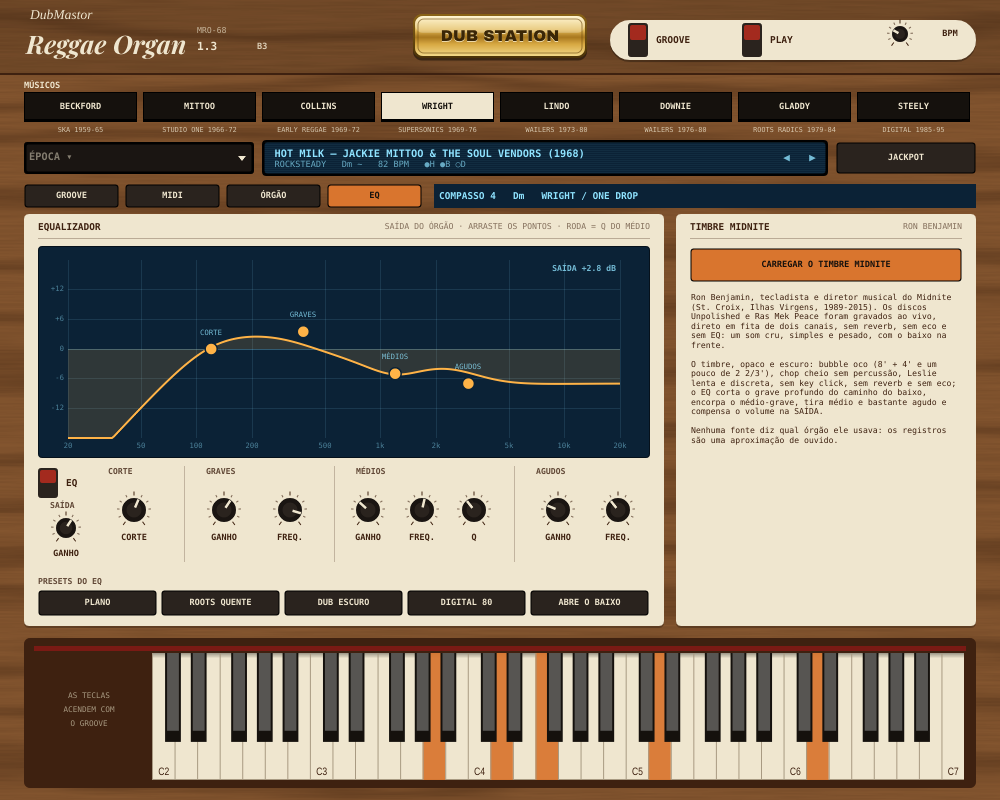
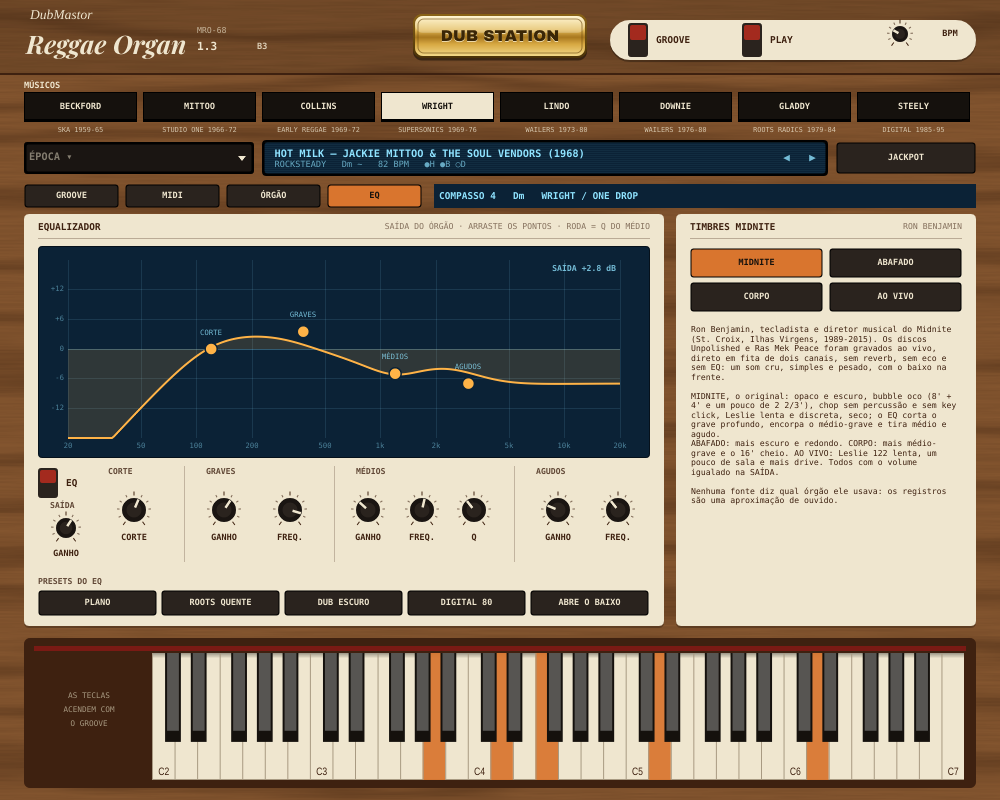
MRO-68 1.3: TIMBRES MIDNITE com 3 variações (ABAFADO, CORPO, AO VIVO), volume igualado
Claude-Session: https://claude.ai/code/session_01DJAeyZsyaf8hh4txo87EyA

Changed region(s): [[0.682, 0.2812, 0.961, 0.625]]

diff --git a/site/web/reggaeorgan/index.html b/site/web/reggaeorgan/index.html
@@ -102,7 +102,7 @@ canvas#roll{width:100%;height:300px;display:block;border-radius:6px;background:v
 .eqk input{min-width:0;flex:1}
 .eqk .sl label{width:48px}
 .mid p{font-size:11px;line-height:1.45;margin:8px 0}
-.mid .chip{width:100%;padding:12px 6px;font-size:12px}
+.mid .chip{flex:1 1 45%;padding:12px 6px;font-size:12px}
 @media (max-width:760px){.eqk{grid-template-columns:1fr}}
 .kb{position:relative;height:130px;margin-top:10px;background:var(--brown);border-radius:6px;padding:8px 8px 6px;border-top:5px solid #7a1a14;user-select:none;touch-action:none}
 .kb .keys{position:relative;height:100%}
@@ -242,10 +242,11 @@ canvas#roll{width:100%;height:300px;display:block;border-radius:6px;background:v
     <div class="lbl">PRESETS DO EQ</div><div class="row" id="eqPresets"></div>
   </div>
   <div class="panel mid">
-    <h2>TIMBRE MIDNITE <small>Ron Benjamin</small></h2>
-    <button class="chip" id="midnite">CARREGAR O TIMBRE MIDNITE</button>
+    <h2>TIMBRES MIDNITE <small>Ron Benjamin</small></h2>
+    <div class="row" id="midnite"></div>
     <p>Ron Benjamin, tecladista e diretor musical do Midnite (St. Croix, Ilhas Virgens, 1989-2015). Os discos <i>Unpolished</i> e <i>Ras Mek Peace</i> foram gravados ao vivo, direto em fita de dois canais, sem reverb, sem eco e sem EQ: um som cru, simples e pesado, com o baixo na frente.</p>
-    <p>O timbre, opaco e escuro: bubble oco (8' + 4' e um pouco de 2⅔'), chop cheio sem percussão e sem key click, Leslie lenta e discreta, sem eco; o EQ corta o grave profundo do caminho do baixo, encorpa o médio-grave, tira médio e bastante agudo e compensa o volume na SAÍDA. O groove continua o do músico escolhido.</p>
+    <p><b>MIDNITE</b>, o original: opaco e escuro, bubble oco (8' + 4' e um pouco de 2⅔'), chop sem percussão e sem key click, Leslie lenta e discreta, seco; o EQ corta o grave profundo, encorpa o médio-grave e tira médio e agudo.
+    <b>ABAFADO</b>: mais escuro e redondo. <b>CORPO</b>: mais médio-grave e o 16' cheio. <b>AO VIVO</b>: Leslie 122 lenta e mais drive. Todos com o volume igualado na SAÍDA. O groove continua o do músico escolhido.</p>
     <p style="opacity:.7">Nenhuma fonte diz qual órgão ele usava: os registros são uma aproximação de ouvido.</p>
   </div>
  </div>
@@ -299,7 +300,12 @@ const EQ_PRESETS=[
   ['DIGITAL 80','fino e brilhante',[150,-3,200,2,2500,.9,4,7000,0]],
   ['ABRE O BAIXO','corta o grave para o baixo',[180,-4,250,1.5,1200,.8,0,5000,0]]];
 const EQ_KEYS=['eqHpf','eqLowG','eqLowF','eqMidG','eqMidF','eqMidQ','eqHighG','eqHighF','eqOut'];
-const MIDNITE={bdb:[0,0,8,6,2,0,0,0,0],cdb:[8,6,8,4,0,0,0,0,0],drive:.12,lesPreset:2,lesSpeed:0,lesDepth:.45,eq:[120,3.5,380,-5,1200,.8,-7,3000,2.8]};
+// TIMBRES MIDNITE: os mesmos do OrganEQ.h (midniteTimbre). O reverb do AO VIVO fica só no plugin.
+const MIDNITE=[
+  {name:'MIDNITE',sub:'o original: seco, opaco e escuro',bdb:[0,0,8,6,2,0,0,0,0],cdb:[8,6,8,4,0,0,0,0,0],drive:.12,lesPreset:2,lesSpeed:0,lesDepth:.45,eq:[120,3.5,380,-5,1200,.8,-7,3000,2.8]},
+  {name:'ABAFADO',sub:'mais escuro e redondo, quase sem agudo',bdb:[0,0,8,4,0,0,0,0,0],cdb:[8,4,8,2,0,0,0,0,0],drive:.10,lesPreset:2,lesSpeed:0,lesDepth:.35,eq:[120,4,360,-6,1100,.8,-10,2200,3.4]},
+  {name:'CORPO',sub:"mais médio-grave e o 16' cheio no chop",bdb:[0,0,8,6,2,0,0,0,0],cdb:[8,8,8,4,0,0,0,0,0],drive:.14,lesPreset:2,lesSpeed:0,lesDepth:.45,eq:[110,5,420,-4.5,1300,.8,-7,3000,.4]},
+  {name:'AO VIVO',sub:'Leslie 122 lenta e mais drive',bdb:[0,0,8,6,2,0,0,0,0],cdb:[8,6,8,4,0,0,0,0,0],drive:.18,lesPreset:1,lesSpeed:0,lesDepth:.7,eq:[120,3.5,380,-5,1200,.8,-6,3200,2.5]}];
 const EPOCHS = [ // musician, beat, feel(-1 = grade do músico), bpm
   ['ROCKSTEADY','1966-68',1,0,1,80],['EARLY REGGAE','1968-72',2,0,-1,84],['ROOTS','1972-79',3,0,-1,74],['ROCKERS','1975-80',5,1,-1,76],
   ['LOVERS ROCK','1969-94',4,0,-1,72],['RUB A DUB','1979-84',6,0,-1,78],['DIGITAL','1985-89',7,1,-1,92],['RAGGA','1990-95',7,2,-1,94],
@@ -392,7 +398,7 @@ function detectChord(held){
 const S = {mus:1,epoch:-1,bank:-1,grid:gridFrom(MUS[1].rh,MUS[1].lh),beat:0,nota:0,swing:.12,human:.3,ghost:.5,seed:1,
   bubbleOn:true,chopOn:true,fillsOn:true,bubbleLvl:.85,chopLvl:.75,fillStyle:0,fillEvery:4,chordSrc:0,bpm:80,
   instr:0,lesPreset:0,lesSpeed:0,lesBrake:false,lesDepth:.8,drive:.2,echoOn:false,echoVol:.45,echoInt:.4,master:.8,bdb:[0,0,8,2,0,0,0,0,0],cdb:[8,8,8,0,0,0,0,0,0],
-  quickFeel:2,quickDen:2,page:0,...EQ_FLAT,midnite:false,brush:1,edits:null,
+  quickFeel:2,quickDen:2,page:0,...EQ_FLAT,midnite:-1,brush:1,edits:null,
   slots:[{root:9,minor:true,dur:1,on:true},{root:2,minor:true,dur:1,on:true},{root:9,minor:true,dur:1,on:true},{root:4,minor:true,dur:1,on:true}]};
 const chords=()=>S.slots.filter((s,i)=>i===0||s.on).map(s=>({root:s.root,minor:s.minor,beats:DURS[s.dur][0]}));
 function settings(){ return {grid:S.grid,beat:S.beat,noteSize:S.nota,swing:S.swing,human:S.human,ghost:S.ghost,seed:S.seed,bubbleOn:S.bubbleOn,chopOn:S.chopOn,fillsOn:S.fillsOn,
@@ -573,7 +579,7 @@ function setStatus(t){ document.getElementById('status').textContent=t; }
 
 // ====================================================================== os três caminhos
 function applyMusician(i){
-  const m=MUS[i]; S.mus=i; S.edits=null; S.epoch=-1; S.midnite=false;
+  const m=MUS[i]; S.mus=i; S.edits=null; S.epoch=-1; S.midnite=-1;
   Object.assign(S,{grid:gridFrom(m.rh,m.lh),beat:m.beat,swing:m.swing,human:m.human,ghost:m.ghost,fillStyle:m.fillStyle,fillEvery:m.fillEvery,bpm:m.bpm,lesPreset:lesFromMusician(m.leslie),lesSpeed:m.leslie===2?1:0,lesBrake:false,lesDepth:m.leslie?LES[lesFromMusician(m.leslie)].depth:.8,drive:m.drive,bdb:[...m.bdb],cdb:[...m.cdb]});
   buildWaves(); renderDrawbars(); refresh(); applySound();
   if(!playing) setStatus(m.who+'  ·  dê PLAY');
@@ -718,8 +724,8 @@ function setPage(p){ S.page=p; [0,1,2,3].forEach(k=>$('p'+k).hidden=k!==p); refr
 function refresh(){
   [...$('mus').children].forEach((b,i)=>b.classList.toggle('on',i===S.mus));
   $('epoch').value=String(S.epoch);
-  ['tabs','feel','density','beat','nota','fillStyle','fillEvery','chordSrc','lesPresets','lesSpeed','instr','brush','eqPresets'].forEach(refreshChips);
-  $('eqOn').classList.toggle('on',S.eqOn); $('midnite').classList.toggle('on',S.midnite); if(S.page===3) drawEq();
+  ['tabs','feel','density','beat','nota','fillStyle','fillEvery','chordSrc','lesPresets','lesSpeed','instr','brush','eqPresets','midnite'].forEach(refreshChips);
+  $('eqOn').classList.toggle('on',S.eqOn); if(S.page===3) drawEq();
   $('lesBrake').classList.toggle('on',S.lesBrake);
   for(const k of ['bubbleOn','chopOn','fillsOn','echoOn']) $(k).classList.toggle('on',S[k]);
   $('backBtn').disabled=!S.edits; $('backBtn').classList.toggle('on',!!S.edits);
@@ -790,8 +796,10 @@ function setEq(v){ EQ_KEYS.forEach((k,i)=>S[k]=v[i]); S.eqOn=true; }
 chips('eqPresets',EQ_PRESETS.map(p=>p[0]),eqPresetIndex,i=>setEq(EQ_PRESETS[i][2]));
 [...$('eqPresets').children].forEach((b,i)=>b.title=EQ_PRESETS[i][1]);
 $('eqOn').onclick=()=>{ S.eqOn=!S.eqOn; refresh(); applySound(); };
-$('midnite').onclick=()=>{ Object.assign(S,{instr:0,bdb:[...MIDNITE.bdb],cdb:[...MIDNITE.cdb],drive:MIDNITE.drive,echoOn:false,lesPreset:MIDNITE.lesPreset,lesSpeed:MIDNITE.lesSpeed,lesBrake:false,lesDepth:MIDNITE.lesDepth,midnite:true});
-  setEq(MIDNITE.eq); buildWaves(); renderDrawbars(); refresh(); applySound(); };
+chips('midnite',MIDNITE.map(t=>t.name),()=>S.midnite,i=>{ const T=MIDNITE[i];
+  Object.assign(S,{instr:0,bdb:[...T.bdb],cdb:[...T.cdb],drive:T.drive,echoOn:false,lesPreset:T.lesPreset,lesSpeed:T.lesSpeed,lesBrake:false,lesDepth:T.lesDepth,midnite:i});
+  setEq(T.eq); buildWaves(); renderDrawbars(); });
+[...$('midnite').children].forEach((b,i)=>b.title=MIDNITE[i].sub);
 // curva: a resposta real dos filtros do navegador (getFrequencyResponse), medida em filtros de um contexto offline
 let eqProbe=null;
 function eqFilters(){   // sempre os filtros de medida: os do áudio deslizam até o valor novo (setTargetAtTime)

diff --git a/site/instrumentos.html b/site/instrumentos.html
@@ -422,7 +422,7 @@
               <li>Dois registros de drawbar, como dois organistas; Leslie animada de dois rotores (presets 122, 147, Chorale, Dub Tremolo) e eco de fita na mão direita</li>
               <li>INSTRUMENTO: Hammond B3 ou 4 pianos elétricos tocando o mesmo groove: Rhodes Stage, Rhodes Suitcase (tremolo), Wurlitzer 200A e FM EP estilo DX7</li>
               <li>Novo na 1.3: aba EQ com equalizador de 4 faixas (corte de graves, graves, médios com Q, agudos), curva editável no mouse e presets</li>
-              <li>Novo na 1.3: TIMBRE MIDNITE, o órgão cru e seco do Ron Benjamin (Midnite, St. Croix)</li>
+              <li>Novo na 1.3: TIMBRES MIDNITE, o órgão cru, seco e escuro do Ron Benjamin (Midnite, St. Croix), com as variações ABAFADO, CORPO e AO VIVO</li>
             </ul>
             <div class="formats">Instrumento / gerador de grooves · Windows: VST3 + standalone · Mac: VST3, AU + standalone (Intel e Apple Silicon)</div>
             <div class="dl">

diff --git a/ReggaeOrgan/Source/PluginEditor.cpp b/ReggaeOrgan/Source/PluginEditor.cpp
@@ -938,16 +938,23 @@ ReggaeOrganEditor::ReggaeOrganEditor (ReggaeOrganProcessor& p)
     }
     eqPresets.current = [this] { return proc.getEqPreset(); };
     eqPresets.onPick = [this] (int i) { proc.applyEqPreset (i); };
-    midniteBtn.setButtonText (u8 ("CARREGAR O TIMBRE MIDNITE"));
-    midniteBtn.getProperties().set ("style", "chip");
-    midniteBtn.setTooltip (u8 ("Troca registros, Leslie, drive, click, reverb, eco e EQ. O groove continua o do m\xc3\xbasico."));
-    midniteBtn.onClick = [this] { proc.applyMidnite(); };
-    addAndMakeVisible (midniteBtn);
+    {
+        juce::StringArray names;
+        for (int i = 0; i < mro::NumMidniteTimbres; ++i) names.add (u8 (mro::midniteTimbre (i).name));
+        setupChips (midniteChips, {}, names);
+        for (int i = 0; i < mro::NumMidniteTimbres; ++i)
+            midniteChips.buttons[i]->setTooltip (u8 (mro::midniteTimbre (i).sub)
+                                                 + u8 (". Troca registros, Leslie, drive, click, reverb, eco e EQ; o groove continua o do m\xc3\xbasico."));
+        midniteChips.current = [this] { return proc.midniteIndex(); };
+        midniteChips.onPick = [this] (int i) { proc.applyMidnite (i); };
+    }
     midniteInfo.setText (u8 ("Ron Benjamin, tecladista e diretor musical do Midnite (St. Croix, Ilhas Virgens, 1989-2015). "
                              "Os discos Unpolished e Ras Mek Peace foram gravados ao vivo, direto em fita de dois canais, "
                              "sem reverb, sem eco e sem EQ: um som cru, simples e pesado, com o baixo na frente.\n\n"
-                             "O timbre, opaco e escuro: bubble oco (8' + 4' e um pouco de 2 2/3'), chop cheio sem percuss\xc3\xa3o, Leslie lenta e discreta, "
-                             "sem key click, sem reverb e sem eco; o EQ corta o grave profundo do caminho do baixo, encorpa o m\xc3\xa9" "dio-grave, tira m\xc3\xa9" "dio e bastante agudo e compensa o volume na SA\xc3\x8d" "DA.\n\n"
+                             "MIDNITE, o original: opaco e escuro, bubble oco (8' + 4' e um pouco de 2 2/3'), chop sem percuss\xc3\xa3o e sem key click, "
+                             "Leslie lenta e discreta, seco; o EQ corta o grave profundo, encorpa o m\xc3\xa9" "dio-grave e tira m\xc3\xa9" "dio e agudo.\n"
+                             "ABAFADO: mais escuro e redondo. CORPO: mais m\xc3\xa9" "dio-grave e o 16' cheio. AO VIVO: Leslie 122 lenta, um pouco de sala e mais drive. "
+                             "Todos com o volume igualado na SA\xc3\x8d" "DA.\n\n"
                              "Nenhuma fonte diz qual \xc3\xb3rg\xc3\xa3o ele usava: os registros s\xc3\xa3o uma aproxima\xc3\xa7\xc3\xa3o de ouvido."),
                          juce::dontSendNotification);
     midniteInfo.setFont (VintageLookAndFeel::mono (9.5f, false));
@@ -1064,7 +1071,7 @@ std::vector<juce::Component*> ReggaeOrganEditor::pageComponents (int p)
         v.push_back (&eqOnBtn);
         for (auto* k : { &eqOut, &eqHpf, &eqLowG, &eqLowF, &eqMidG, &eqMidF, &eqMidQ, &eqHighG, &eqHighF }) addK (*k);
         addC (eqPresets);
-        v.push_back (&midniteBtn);
+        addC (midniteChips);
         v.push_back (&midniteInfo);
     }
     else
@@ -1100,9 +1107,8 @@ void ReggaeOrganEditor::timerCallback()
         const int newLook = juce::jlimit (0, 4, (int) proc.apvts.getRawParameterValue ("instr")->load());
         if (newLook != look) { look = newLook; repaint(); }
     }
-    for (auto* c : { &tabs, &feel, &density, &beat, &nota, &fillStyle, &fillEvery, &chordSrc, &lesPreset, &lesSpeed, &instr, &brush, &eqPresets })
+    for (auto* c : { &tabs, &feel, &density, &beat, &nota, &fillStyle, &fillEvery, &chordSrc, &lesPreset, &lesSpeed, &instr, &brush, &eqPresets, &midniteChips })
         refreshChips (*c);
-    midniteBtn.setToggleState (proc.isMidnite(), juce::dontSendNotification);
     if (page == 3) eqCurve.repaint();
     lesBrake.setToggleState (proc.get ("lesBrake") > 0.5f, juce::dontSendNotification);
     if (page == 2)
@@ -1326,7 +1332,7 @@ void ReggaeOrganEditor::renderBackground (juce::Graphics& g)
         g.setColour (brownInk.withAlpha (0.25f));
         for (int gx : { x + 146, x + 296, x + 476 }) g.drawVerticalLine (gx, (float) y, (float) y + 96);
         smallLabel ("PRESETS DO EQ", x, kGridPan.getY() + 362);
-        ivoryPanel (kSide, "TIMBRE MIDNITE", "RON BENJAMIN");
+        ivoryPanel (kSide, "TIMBRES MIDNITE", "RON BENJAMIN");
     }
     else
     {
@@ -1478,8 +1484,9 @@ void ReggaeOrganEditor::resized()
         placeKnob (eqHighF, { x + 580, y + 44 }, 38, 60);
         layoutChips (eqPresets, { x, kGridPan.getY() + 376, w, 26 }, 4);
         const int sx = kSide.getX() + 14, sw = kSide.getWidth() - 28;
-        midniteBtn.setBounds (sx, kSide.getY() + 34, sw, 34);
-        midniteInfo.setBounds (sx - 4, kSide.getY() + 78, sw + 8, kSide.getHeight() - 88);
+        for (int i = 0; i < mro::NumMidniteTimbres; ++i)
+            midniteChips.buttons[i]->setBounds (sx + (i % 2) * (sw / 2 + 3), kSide.getY() + 34 + (i / 2) * 34, sw / 2 - 3, 30);
+        midniteInfo.setBounds (sx - 4, kSide.getY() + 110, sw + 8, kSide.getHeight() - 120);
     }
 
     keyboard.setBounds (152, 653, 812, 127);

diff --git a/ReggaeOrgan/Source/OrganEQ.h b/ReggaeOrgan/Source/OrganEQ.h
@@ -40,13 +40,16 @@ inline const EqPreset& eqPreset (int i)
     return t[i < 0 ? 0 : (i >= NumEqPresets ? NumEqPresets - 1 : i)];
 }
 
-// TIMBRE MIDNITE (Ron Benjamin, Midnite · St. Croix, 1997-2015): órgão cru, seco, opaco e escuro, como nos discos gravados
+// TIMBRES MIDNITE (Ron Benjamin, Midnite · St. Croix, 1997-2015): órgão cru, seco, opaco e escuro, como nos discos gravados
 // ao vivo direto em fita de dois canais (Unpolished, Ras Mek Peace), sem reverb e sem eco; bubble oco
-// (8' + 4' + 2⅔'), chop cheio, sem percussão e sem key click, Leslie lenta e discreta; o EQ tira o grave
-// do caminho do baixo pesado, encorpa o médio-grave (150–350 Hz), tira médio (1,2 kHz) e compensa o volume na SAÍDA. Registros e EQ são uma aproximação de ouvido.
+// (8' + 4' e um pouco de 2⅔'), chop cheio, sem percussão e sem key click, Leslie lenta e discreta; o EQ tira o grave
+// do caminho do baixo pesado, encorpa o médio-grave (150–350 Hz), tira médio (1,2 kHz) e bastante agudo e compensa o volume
+// na SAÍDA (medida no teste: o mesmo RMS do timbre do Mittoo). O MIDNITE é o original; ABAFADO, CORPO e AO VIVO são variações.
+// Registros e EQ são uma aproximação de ouvido. Ao mudar a tabela, mude também MIDNITE no index.html da versão para celular.
 struct OrganTimbre
 {
     const char* name;
+    const char* sub;
     int bubbleDb[9], chopDb[9];
     bool perc;
     float drive, click, reverb;
@@ -54,17 +57,25 @@ struct OrganTimbre
     float lesDepth;
     EqParams eq;
 };
-constexpr float kMidniteOutDb = 2.8f;   // compensação de volume (medida no teste: mesmo RMS do timbre do Mittoo)
-inline const OrganTimbre& midniteTimbre()
+enum { NumMidniteTimbres = 4 };
+inline const OrganTimbre& midniteTimbre (int i = 0)
 {
-    static const OrganTimbre t {
-        "MIDNITE",
-        { 0, 0, 8, 6, 2, 0, 0, 0, 0 }, { 8, 6, 8, 4, 0, 0, 0, 0, 0 },
-        false, 0.12f, 0.0f, 0.0f,        // sem percussão e sem key click: nada de ataque percussivo
-        2, 0, 0.45f,
-        { true, 120.0f, 3.5f, 380.0f, -5.0f, 1200.0f, 0.8f, -7.0f, 3000.0f, kMidniteOutDb }
+    //   sem percussão e sem key click em todos: nada de ataque percussivo
+    static const OrganTimbre t[NumMidniteTimbres] = {
+        { "MIDNITE", "o original: seco, opaco e escuro",
+          { 0, 0, 8, 6, 2, 0, 0, 0, 0 }, { 8, 6, 8, 4, 0, 0, 0, 0, 0 }, false, 0.12f, 0.0f, 0.0f, 2, 0, 0.45f,
+          { true, 120.0f, 3.5f, 380.0f, -5.0f, 1200.0f, 0.8f, -7.0f, 3000.0f, 2.8f } },
+        { "ABAFADO", "mais escuro e redondo, quase sem agudo",
+          { 0, 0, 8, 4, 0, 0, 0, 0, 0 }, { 8, 4, 8, 2, 0, 0, 0, 0, 0 }, false, 0.10f, 0.0f, 0.0f, 2, 0, 0.35f,
+          { true, 120.0f, 4.0f, 360.0f, -6.0f, 1100.0f, 0.8f, -10.0f, 2200.0f, 3.4f } },
+        { "CORPO", "mais m\xc3\xa9" "dio-grave e o 16' cheio no chop",
+          { 0, 0, 8, 6, 2, 0, 0, 0, 0 }, { 8, 8, 8, 4, 0, 0, 0, 0, 0 }, false, 0.14f, 0.0f, 0.0f, 2, 0, 0.45f,
+          { true, 110.0f, 5.0f, 420.0f, -4.5f, 1300.0f, 0.8f, -7.0f, 3000.0f, 0.4f } },
+        { "AO VIVO", "Leslie 122 lenta, um pouco de sala e mais drive",
+          { 0, 0, 8, 6, 2, 0, 0, 0, 0 }, { 8, 6, 8, 4, 0, 0, 0, 0, 0 }, false, 0.18f, 0.0f, 0.12f, 1, 0, 0.70f,
+          { true, 120.0f, 3.5f, 380.0f, -5.0f, 1200.0f, 0.8f, -6.0f, 3200.0f, 2.5f } },
     };
-    return t;
+    return t[i < 0 ? 0 : (i >= NumMidniteTimbres ? NumMidniteTimbres - 1 : i)];
 }
 
 // um biquad estéreo (forma direta transposta II)

diff --git a/ReggaeOrgan/tests/render_test.cpp b/ReggaeOrgan/tests/render_test.cpp
@@ -177,9 +177,10 @@ int main()
 
     // ---------------- áudio: 8 compassos por músico
     if (std::system ("mkdir -p out") != 0) return 1;
-    for (int m = 0; m <= NumMusicians; ++m)   // o último: o groove do Mittoo com o TIMBRE MIDNITE (1.3)
+    for (int m = 0; m < NumMusicians + NumMidniteTimbres; ++m)   // os últimos: o groove do Mittoo com os TIMBRES MIDNITE (1.3)
     {
-        const bool midnite = m == NumMusicians;
+        const bool midnite = m >= NumMusicians;
+        const int tIdx = m - NumMusicians;
         const Musician& mu = musician (midnite ? (int) MusMittoo : m);
         Settings s;
         s.grid = gridFrom (mu.rh, mu.lh); s.beat = mu.beat; s.swing = mu.swing; s.human = mu.human;
@@ -189,7 +190,7 @@ int main()
         sp.ghostLevel = mu.ghost; sp.lesPreset = leslieFromMusician (mu.leslie); sp.lesSpeed = mu.leslie == 2 ? 1 : 0; sp.drive = mu.drive; sp.perc = mu.perc; sp.echoOn = true; sp.echoVol = 0.3f;
         if (midnite)
         {
-            const OrganTimbre& t = midniteTimbre();
+            const OrganTimbre& t = midniteTimbre (tIdx);
             for (int d = 0; d < 9; ++d) { sp.bubbleDb[d] = (float) t.bubbleDb[d]; sp.chopDb[d] = (float) t.chopDb[d]; }
             sp.perc = t.perc; sp.drive = t.drive; sp.click = t.click; sp.reverb = t.reverb; sp.echoOn = false;
             sp.lesPreset = t.lesPreset; sp.lesSpeed = t.lesSpeed; sp.lesDepth = t.lesDepth; sp.eq = t.eq;
@@ -249,14 +250,14 @@ int main()
         static double mittooRms = 0;
         if (m == (int) MusMittoo) mittooRms = rmsDb;
         if (midnite) CHECK (std::fabs (rmsDb - mittooRms) < 0.7, "MIDNITE: volume compensado (mesmo RMS do timbre do Mittoo)");
-        std::printf ("%-9s %5.1f BPM  notas %4d  pico %.2f  RMS %5.1f dB\n", midnite ? "MIDNITE" : mu.name, bpm, notesOn, pk, rmsDb);
+        std::printf ("%-9s %5.1f BPM  notas %4d  pico %.2f  RMS %5.1f dB\n", midnite ? midniteTimbre (tIdx).name : mu.name, bpm, notesOn, pk, rmsDb);
         CHECK (pk > 0.05f && pk <= 1.0f, "\xc3\xb3rg\xc3\xa3o soa e n\xc3\xa3o passa do teto");
         CHECK (rmsDb > -40.0 && std::isfinite (rmsDb), "n\xc3\xadvel do \xc3\xb3rg\xc3\xa3o razo\xc3\xa1vel, sem NaN");
 
         float mx = 0;
         for (int i = 0; i < N; ++i) mx = std::max (mx, std::max (std::fabs (L[(size_t) i]), std::fabs (R[(size_t) i])));
         if (mx > 0.98f) for (int i = 0; i < N; ++i) { L[(size_t) i] *= 0.98f / mx; R[(size_t) i] *= 0.98f / mx; }
-        const std::string name = "out/MRO-68_" + std::to_string (m + 1) + "_" + (midnite ? "MIDNITE" : mu.name) + ".wav";
+        const std::string name = "out/MRO-68_" + std::to_string (m + 1) + "_" + (midnite ? std::string ("MIDNITE_") + midniteTimbre (tIdx).name : std::string (mu.name)) + ".wav";
         writeWav (name.c_str(), L, R, sr);
     }
 
@@ -343,6 +344,9 @@ int main()
         e = EqParams(); e.out = 4.0f;
         CHECK (std::fabs (OrganEQ::responseDb (e, 300.0) - 4.0) < 0.01, "SA\xc3\x8d" "DA +4 dB");
         CHECK (midniteTimbre().reverb == 0.0f && ! midniteTimbre().perc, "MIDNITE: seco (sem reverb) e sem percuss\xc3\xa3o");
+        for (int k = 0; k < NumMidniteTimbres; ++k)
+            CHECK (! midniteTimbre (k).perc && midniteTimbre (k).click == 0.0f && midniteTimbre (k).eq.highG <= -6.0f,
+                   "timbres Midnite: sem percuss\xc3\xa3o, sem key click e escuros");
     }
     std::printf (fails ? "\n%d FALHA(S)\n" : "\nTudo certo.\n", fails);
     return fails ? 1 : 0;

diff --git a/ReggaeOrgan/tests/snapshot.cpp b/ReggaeOrgan/tests/snapshot.cpp
@@ -69,7 +69,7 @@ int main (int argc, char** argv)
         re->refreshForSnapshot();
     }
     {   // aba EQ (1.3) com o TIMBRE MIDNITE carregado
-        proc.applyMidnite();
+        proc.applyMidnite (0);
         for (int k = 0; k < 4; ++k) { b.clear(); m.clear(); proc.processBlock (b, m); }
         re->setPage (3);
         re->refreshForSnapshot();
@@ -87,6 +87,14 @@ int main (int argc, char** argv)
                           && std::abs (p3.get ("eqMidG") - mro::midniteTimbre().eq.midG) < 0.05f && p3.get ("reverb") == 0.0f;
         std::printf ("EQ e timbre Midnite no estado %s\n", eqOk ? "ok" : "FALHOU");
         ok = ok && eqOk;
+        {   // as variações: CORPO volta do estado como CORPO
+            ReggaeOrganProcessor p4; p4.applyMidnite (2);
+            juce::MemoryBlock m4; p4.getStateInformation (m4);
+            ReggaeOrganProcessor p5; p5.setStateInformation (m4.getData(), (int) m4.getSize());
+            const bool vOk = p5.midniteIndex() == 2 && std::abs (p5.get ("eqOut") - mro::midniteTimbre (2).eq.out) < 0.05f;
+            std::printf ("varia\xc3\xa7\xc3\xa3o CORPO no estado %s\n", vOk ? "ok" : "FALHOU");
+            ok = ok && vOk;
+        }
         proc.applyMusician (mro::MusWright);   // volta ao estado do resto do teste
         proc.setParam ("echoOn", 1.0f);
         proc.applyEqPreset (0);

diff --git a/ReggaeOrgan/Source/PluginProcessor.cpp b/ReggaeOrgan/Source/PluginProcessor.cpp
@@ -245,9 +245,10 @@ int ReggaeOrganProcessor::getEqPreset() const
     return -1;
 }
 
-void ReggaeOrganProcessor::applyMidnite()
+void ReggaeOrganProcessor::applyMidnite (int i)
 {
-    const OrganTimbre& t = midniteTimbre();
+    i = juce::jlimit (0, (int) NumMidniteTimbres - 1, i);
+    const OrganTimbre& t = midniteTimbre (i);
     setParam ("instr", 0.0f);   // é Hammond (drawbars)
     for (int i = 0; i < 9; ++i)
     {
@@ -264,10 +265,15 @@ void ReggaeOrganProcessor::applyMidnite()
     setParam ("lesBrake", 0.0f);
     setParam ("lesDepth", t.lesDepth);
     setEq (t.eq);
-    apvts.state.setProperty ("timbre", "midnite", nullptr);
+    apvts.state.setProperty ("timbre", "midnite" + juce::String (i), nullptr);
 }
 
-bool ReggaeOrganProcessor::isMidnite() const { return apvts.state.getProperty ("timbre").toString() == "midnite"; }
+int ReggaeOrganProcessor::midniteIndex() const
+{
+    const juce::String t = apvts.state.getProperty ("timbre").toString();
+    if (! t.startsWith ("midnite")) return -1;
+    return juce::jlimit (0, (int) NumMidniteTimbres - 1, t.substring (7).getIntValue());
+}
 
 void ReggaeOrganProcessor::applyEpoch (int e)
 {

diff --git a/ReggaeOrgan/Source/PluginProcessor.h b/ReggaeOrgan/Source/PluginProcessor.h
@@ -58,8 +58,9 @@ public:
     mro::EqParams getEq() const;
     void applyEqPreset (int i);
     int getEqPreset() const;                         // -1 = ajuste próprio
-    void applyMidnite();                             // TIMBRE MIDNITE (Ron Benjamin): registros, Leslie, drive, click e EQ
-    bool isMidnite() const;
+    void applyMidnite (int i = 0);                   // TIMBRES MIDNITE (Ron Benjamin): registros, Leslie, drive, click e EQ
+    int midniteIndex() const;                        // -1 = nenhum timbre Midnite carregado
+    bool isMidnite() const { return midniteIndex() >= 0; }
 
     // atalhos da grade
     void applyFeel (int feel, int density);

diff --git a/ReggaeOrgan/Source/PluginEditor.h b/ReggaeOrgan/Source/PluginEditor.h
@@ -272,7 +272,7 @@ private:
     std::unique_ptr<APVTS::ButtonAttachment> eqOnAtt;
     Knob eqOut, eqHpf, eqLowG, eqLowF, eqMidG, eqMidF, eqMidQ, eqHighG, eqHighF;
     Chips eqPresets;
-    juce::TextButton midniteBtn;
+    Chips midniteChips;   // MIDNITE, ABAFADO, CORPO, AO VIVO
     juce::Label midniteInfo;
 
     GrooveKeyboard keyboard;

diff --git a/README.md b/README.md
@@ -120,7 +120,7 @@ só para tudo, e a aba **CONTROL ROOM** com o Big Knob no master, o mute de cada
 |---|---|---|---|---|
 | **Mastor Reggae Drums MRD-12 2.0** | Instrumento: sampler de bateria com 16 pads estilo MPC / SP-404 (notas 36–51, mapa do MRDM-12), visor do sample com início e fim, envelope AHDSR gráfico, LAYER (timbre 2 e juntar pads), 34 timbres DM, choke, presets de fábrica e GRAVAR; aba **DUB DRUMS** com o MRDM-12 inteiro (bateristas, GROOVES de 118 músicas no visor azul, groove nos pads, MIDI colorido por compasso). [▶ Tocar no navegador](https://dubmastor.github.io/DubMastor-DubStation-/battery/) | [⬇ macOS (.pkg)](https://github.com/dubmastor/DubMastor-DubStation-/releases/download/MRD-12-2.0/MRD-12-macOS-Instalador.pkg) | [⬇ Windows (.exe)](https://github.com/dubmastor/DubMastor-DubStation-/releases/download/MRD-12-2.0/MRD-12-Windows-Instalador.exe) | [ReggaeDrums/](ReggaeDrums/) |
 | **Mastor Riddim Machine MRM-0420 2.6** | Instrumento / gerador MIDI da DubStation: MRDM-12 + MRCM-1240 + MRBM-69 + Mastor Big Knob num só. Aba RIDDIM com a harmonia única (skank e baixo), chave e músicos de cada máquina, MIDI editável e arrastável por máquina, JACKPOT (NOVO RIDDIM e ALAVANCA de riddim 100% aleatório), PRESETS de harmonia e alto-falante; abas de cada máquina completas e CONTROL ROOM (Big Knob no master, mute DRUMS / BASS / RIDDIM e TAPE ECHO) | [⬇ macOS](https://github.com/dubmastor/DubMastor-DubStation-/releases/download/MRM-0420-2.6/MRM-0420-macOS-Instalador.pkg) | [⬇ Windows](https://github.com/dubmastor/DubMastor-DubStation-/releases/download/MRM-0420-2.6/MRM-0420-Windows-Instalador.exe) | [RiddimMachine/](RiddimMachine/) |
-| **Mastor Reggae Organ MRO-68 1.3** | Instrumento / gerador de grooves: o órgão de reggae (bubble, chop e fills) na contagem com a caixa no 2 e no 4, com o Hammond (Leslie animada de dois rotores com presets) ou 4 pianos elétricos; grooves por MÚSICO (8 organistas jamaicanos), ÉPOCA (10 estilos) ou RIDDIM (banco único, 356 músicas); GRADE de 16 semicolcheias editável, feel, batida, duração da nota, swing, ghost, JACKPOT, fills Mittoo/Wright/Downie/Gladdy, visor MIDI editável e arraste por camada; aba EQ (4 faixas, curva editável no mouse, presets) e TIMBRE MIDNITE (Ron Benjamin). [▶ Tocar no navegador](https://dubmastor.github.io/DubMastor-DubStation-/web/reggaeorgan/) | [⬇ macOS](https://github.com/dubmastor/DubMastor-DubStation-/releases/download/MRO-68-1.3/MRO-68-macOS-Instalador.pkg) | [⬇ Windows](https://github.com/dubmastor/DubMastor-DubStation-/releases/download/MRO-68-1.3/MRO-68-Windows-Instalador.exe) | [ReggaeOrgan/](ReggaeOrgan/) |
+| **Mastor Reggae Organ MRO-68 1.3** | Instrumento / gerador de grooves: o órgão de reggae (bubble, chop e fills) na contagem com a caixa no 2 e no 4, com o Hammond (Leslie animada de dois rotores com presets) ou 4 pianos elétricos; grooves por MÚSICO (8 organistas jamaicanos), ÉPOCA (10 estilos) ou RIDDIM (banco único, 356 músicas); GRADE de 16 semicolcheias editável, feel, batida, duração da nota, swing, ghost, JACKPOT, fills Mittoo/Wright/Downie/Gladdy, visor MIDI editável e arraste por camada; aba EQ (4 faixas, curva editável no mouse, presets) e TIMBRES MIDNITE (Ron Benjamin: original, ABAFADO, CORPO e AO VIVO). [▶ Tocar no navegador](https://dubmastor.github.io/DubMastor-DubStation-/web/reggaeorgan/) | [⬇ macOS](https://github.com/dubmastor/DubMastor-DubStation-/releases/download/MRO-68-1.3/MRO-68-macOS-Instalador.pkg) | [⬇ Windows](https://github.com/dubmastor/DubMastor-DubStation-/releases/download/MRO-68-1.3/MRO-68-Windows-Instalador.exe) | [ReggaeOrgan/](ReggaeOrgan/) |
 | **Mastor Reggae Clavinet MRCL-71 1.0** | Instrumento / gerador de linhas: clavinet de reggae por modelo físico (timbres M1, D6, MUTE, WAH, PHASER e DUB) com a CLAVINET MACHINE, que segue a harmonia (banco, acordes ou MIDI da trilha) e sugere linhas de 7 clavinetistas jamaicanos (skank duplo, contraponto, riff em oitavas), na contagem com a caixa no 2 e no 4; chave de oitava, fills, visor MIDI editável e arraste para a DAW. [▶ Tocar no navegador](https://dubmastor.github.io/DubMastor-DubStation-/web/reggaeclavinet/) | [⬇ macOS](https://github.com/dubmastor/DubMastor-DubStation-/releases/download/MRCL-71-1.0/MRCL-71-macOS-Instalador.pkg) | [⬇ Windows](https://github.com/dubmastor/DubMastor-DubStation-/releases/download/MRCL-71-1.0/MRCL-71-Windows-Instalador.exe) | [ReggaeClavinet/](ReggaeClavinet/) |
 | **Mastor Orch Hit MOH-88 1.0** | Instrumento / sampler: o orchestra hit dos anos 80 (ORCH5 Fairlight, M1, Emulator, Brass, String, Ragga Menor e Hit Pesado) tocado como um tecladista com as duas mãos, na contagem com a caixa no 2 e no 4; envelope de arrastar, tamanho da nota (1/64 de padrão), reverb, Tape Echo e Saturador (desligados de fábrica), grooves de reggae já desenhados, grade de 4 compassos com MIDIs para arrastar e arraste para a DAW. [▶ Tocar no navegador](https://dubmastor.github.io/DubMastor-DubStation-/web/orchhit/) | [⬇ macOS](https://github.com/dubmastor/DubMastor-DubStation-/releases/download/MOH-88-1.0/MOH-88-macOS-Instalador.pkg) | [⬇ Windows](https://github.com/dubmastor/DubMastor-DubStation-/releases/download/MOH-88-1.0/MOH-88-Windows-Instalador.exe) | [OrchHit/](OrchHit/) |
 | **Mastor Reggae Percussion MRP-77 1.0** | Instrumento / gerador de grooves: percussão de reggae com 37 sons sintetizados (acústicos, digitais 80-90 e Dub FX, ou samples seus) e a PERC MACHINE, com 33 presets (estudo dos percussionistas jamaicanos, kits digitais, Simmons e Dub FX) na contagem com a caixa no 2 e no 4; 38 pads, AUTO MIX, 6 canais que piscam no ritmo, grade de até 8 compassos com uma cor cada, MIDI colorido e arraste para a DAW; notas fora da faixa do MRD-12 (36–51). [▶ Tocar no navegador](https://dubmastor.github.io/DubMastor-DubStation-/web/reggaepercussion/) | [⬇ macOS](https://github.com/dubmastor/DubMastor-DubStation-/releases/download/MRP-77-1.0/MRP-77-macOS-Instalador.pkg) | [⬇ Windows](https://github.com/dubmastor/DubMastor-DubStation-/releases/download/MRP-77-1.0/MRP-77-Windows-Instalador.exe) | [ReggaePercussion/](ReggaePercussion/) |

diff --git a/ReggaeOrgan/README.md b/ReggaeOrgan/README.md
@@ -71,7 +71,7 @@ separados. Leslie de dois rotores (corneta e tambor, com presets, LENTA/RÁPIDA,
 - **EQUALIZADOR** de 4 faixas na saída do órgão: **CORTE** de graves (passa-altas; 20 Hz = desligado), **GRAVES** (shelf),
   **MÉDIOS** (sino com Q) e **AGUDOS** (shelf), de −15 a +15 dB, e **SAÍDA** (−12 a +12 dB) para compensar o volume. Arraste os pontos na curva; roda do mouse no MÉDIOS = Q;
   duplo clique zera. Presets: PLANO, ROOTS QUENTE, DUB ESCURO, DIGITAL 80 e ABRE O BAIXO. Começa plano.
-- **TIMBRE MIDNITE**: o órgão cru e seco do Ron Benjamin (Midnite, St. Croix). Os discos *Unpolished* e *Ras Mek Peace*
+- **TIMBRES MIDNITE** (MIDNITE, o original, e as variações ABAFADO, CORPO e AO VIVO, todas com o volume igualado): o órgão cru e seco do Ron Benjamin (Midnite, St. Croix). Os discos *Unpolished* e *Ras Mek Peace*
   foram gravados ao vivo direto em fita de dois canais, sem reverb, sem eco e sem EQ. O botão carrega bubble oco (8' + 4' e um pouco de 2⅔'),
   chop cheio sem percussão, Leslie lenta e discreta, sem key click, sem reverb e sem eco, e o EQ que tira o grave do caminho
   do baixo, encorpa o médio-grave (150–350 Hz) tira médio (−5 dB em 1,2 kHz) e bastante agudo (−7 dB acima de 3 kHz), deixando o som opaco e escuro, com o volume compensado na SAÍDA. Nenhuma fonte diz qual órgão ele usava: os registros são uma aproximação de ouvido.

diff --git a/ReggaeOrgan/RELEASE_NOTES.md b/ReggaeOrgan/RELEASE_NOTES.md
@@ -12,6 +12,7 @@
   O botão carrega um som cru, seco, opaco e escuro: bubble oco (8' + 4' e um pouco de 2⅔'), chop cheio sem percussão, Leslie ROOTS SUAVE discreta,
   sem key click, sem reverb e sem eco, e o EQ tirando o grave profundo do caminho do baixo, encorpando o médio-grave (150–350 Hz) e tirando médio (−5 dB em 1,2 kHz) e bastante agudo (−7 dB acima de 3 kHz) para um som opaco e escuro, com o volume compensado na SAÍDA (soa tão alto quanto os outros timbres). O groove continua o do músico.
   Nenhuma fonte diz qual órgão ele usava: os registros são uma aproximação de ouvido.
+- **3 variações do timbre Midnite**, nos botões da aba EQ: **ABAFADO** (mais escuro e redondo, quase sem agudo), **CORPO** (mais médio-grave e o 16' cheio no chop) e **AO VIVO** (Leslie 122 lenta, um pouco de sala e mais drive). Todas sem percussão e sem key click, com o volume igualado na SAÍDA.
 - Versão para celular 1.3 com a mesma aba EQ (curva no toque) e o mesmo timbre.
 
 ## 1.2
